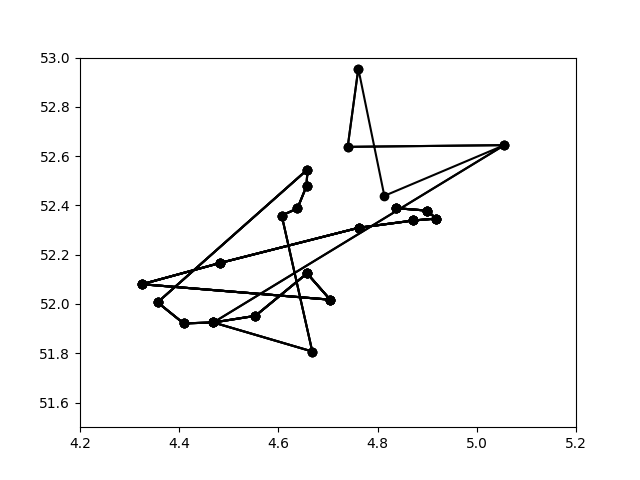
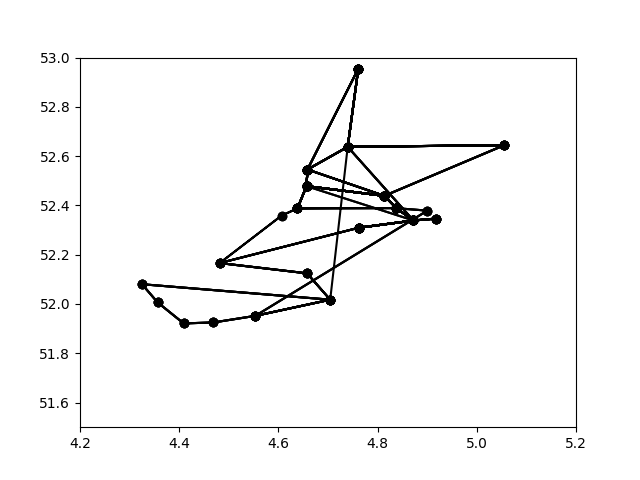
updated random algorithm

Changed region(s): [[0.2188, 0.4062, 0.5938, 0.75], [0.4375, 0.1562, 0.7812, 0.5]]

diff --git a/code/algorithms/random.py b/code/algorithms/random.py
@@ -2,106 +2,83 @@ import random
 from code.classes.routes import Routes
 import copy
 
-def get_random_routes(network):
+def get_random_routes(network, connections):
     """
     Algorithm to gain random routes, with the following constraints:
 
     1. Max number of routes is 7
-    2. Every station is once in the routes
+    2. Every link is only once in the routes
     3. Total time is less than 2 hours
 
     """
     # laad een lege dictionary om routes in te stoppen
-    routes_trajecten = {}
+    routes = {}
     counter = 0
 
     # kopieer de stations en stop ze in een lijst zodat we een random object kunnen vinden
     copy_stations = copy.deepcopy(network)
-    copy_stations_list = copy.deepcopy(list(copy_stations.items()))
+    copy_stations_list = list(copy_stations.items())
+    copy_connections = copy.deepcopy(connections)
 
-    while len(routes_trajecten) < 7 and len(copy_stations) != 0:
+    # maak een lijst voor alle bereden verbindingen
+    connections_used = []
 
-        # maak een lege lijst aan voor stations en routes
+    while len(routes) < 7:
+
+        # maak een lege lijst aan voor stations 
         stations = []
-        route = []
-        
+
         # pak een random station uit de lijst met stationnetjes
         start_station = random.choice(copy_stations_list) # geeft een random object ('Amsterdam Centraal', <code.classes.station.Station object at 0x7fd015d33310>)
         
         # geeft de naam van het object zelf bijv. 'Amsterdam Centraal'
         start_station_name = start_station[0] 
-    
-        # voeg de stationsnaam toe aan een route
-        route.append(start_station_name)
 
         # voeg het station toe aan een lijst die de connecties gaat laden 
         stations.append(start_station)
 
-        # set de tijd op 0 voor een nieuw traject
+        # zet de tijd op 0 voor een nieuw traject
         time = 0
 
-        # zolang de tijd onder twee uur is en er een station beschikbaar is gaan we routes toevoegen
-        while time < 120 and start_station[0] in copy_stations:
-        
-            # verwijder deze vervolgens weer uit de lijst met stationnentjes zodat we geen dubbele stations krijgen
-            del copy_stations[start_station[0]] # delete een station uit de lijst met stationnetjes 
-            
-            # geef aan dat de route nog niet af is en de tijd is nog 0
-            connection_end = False
+        while time <= 120:
 
-            # laad alle connections van het start station in
             connections_start_station = list(stations[-1][1].connections.items())
+            random_connection = random.choice(connections_start_station)
 
-            # pak een random connectie uit die lijst en sla ook de tijd op
-            for i in range(len(connections_start_station)):
-                random_connection = random.choice(connections_start_station)
+            random_connection_name = random_connection[0]
 
-                # sla de naam op van de connectie
-                random_connection_name = random_connection[0]
+            check = True
 
-                # sla de tijd op van de connectie
+            # check of de gemaakte verbinding al is bereden of niet, zo nee, voeg toe aan verbindingen
+            for connection in copy_connections:
+                if connection[0] == start_station_name and connection[1] == random_connection_name:
+                    for connection_used in connections_used:
+                        if connection_used[0] == start_station_name and connection_used[1] == random_connection_name:
+                            check = False
+                            continue
+
+            if check != False:
+                connections_used.append((start_station_name, random_connection_name))
                 time_route = int(random_connection[1])
 
-                # de tijd van de route mag niet over het maximum heen, als dat lukt slaan we de connectie op
-                if time + time_route < 120 and random_connection_name in copy_stations: 
-                    connection_end = random_connection_name
-                    break
-                else:
-                    # als dat niet kan, verwijderen we de connectie uit de mogelijke connectie lijst
-                    connections_start_station.remove(random_connection)
-
-            if connection_end != False:
+                # add the station object of the connection to the stations list
+                for station in copy_stations_list:
+                    if station[0] == random_connection_name:
+                        stations.append(station)
+            
                 # update de totale tijd van de route
                 time += time_route
 
-                # voeg de connectie toe aan de route
-                route.append(connection_end)
-
-                # maak stations weer leeg zodat een nieuw station geladen kan worden
-                stations = []
-
-                # de connectie wordt een nieuw startpunt
-                start_station = connection_end
-
-                # maak er een tuple van zodat de rest klopt
-                start_station = (connection_end, copy_stations[connection_end])
-
-                # laad dit station in stations
-                stations.append(start_station)
-
-            else:
-                # als de lengte van de route uit een enkel station bestaat, voegen we er een toe
-                if len(route) < 2:
-                    connection_end = random_connection_name
-                    time += time_route
-                    route.append(connection_end)
-
                 # update het aantal routes
-                counter += 1
-
-                # voeg de route toe aan de dictionary van routes
-                routes_trajecten[counter] = Routes(route)
-                routes_trajecten[counter].add_routes(counter, route)
+                if time >= 120:
+                    p = len(connections_used)/len(copy_connections)
+                    print(p)
+                    counter += 1
+                    # voeg de route toe aan de dictionary van routes
+                    routes[counter] = Routes(stations)
+                    routes[counter].add_routes(counter, stations)
+                    break
+            else:
                 break
 
-    return routes_trajecten
+    return routes

diff --git a/code/classes/network.py b/code/classes/network.py
@@ -7,7 +7,8 @@ import random
 class Network():
     def __init__(self):
         self.stations = self.load_station()
-        self.load_connections()        
+        self.load_connections()
+        self.get_connections()        
         
     def load_station(self):
         """
@@ -42,6 +43,13 @@ class Network():
                 for connection in connections:
                     self.stations[station].add_connection(connection, distance)
                     self.stations[connection].add_connection(station, distance)
+
+    def get_connections(self):
+        connections = []
+        for station in self.stations.values():
+            for connection in station.connections:
+                connections.append((station.name, connection))
+        return connections
 
 
     def print_csv(self):

diff --git a/code/classes/routes.py b/code/classes/routes.py
@@ -14,7 +14,7 @@ class Routes():
         self.routes[train] = stations
         return self.routes
 
-def print_results(test2):
+def print_results(routes_random):
     """
     Method to print a csv file with results
     """
@@ -24,11 +24,11 @@ def print_results(test2):
         thewriter.writeheader()
         trains_count = 0
         
-        for key,value in test2.items():
+        for key,value in routes_random.items():
             routes = []
             trains_count += 1
             for station in value.stations:
-                route = station
+                route = station[0]
                 routes.append(route)    
             thewriter.writerow({'train': trains_count, 'route': routes})
 

diff --git a/main.py b/main.py
@@ -8,9 +8,10 @@ if __name__ == "__main__":
 
     # Create a network from our data
     network = network.Network()
+    connections = network.get_connections()
 
     # Create random routes and print results
-    random_routes = random.get_random_routes(network.stations)
+    random_routes = random.get_random_routes(network.stations, connections)
     results = routes.print_results(random_routes)
 
     # Create visualisation from our results

diff --git a/code/visualisations/vision.py b/code/visualisations/vision.py
@@ -30,8 +30,8 @@ def print_stations(test, test2):
     for traject in trajecten:
         k += 1
         for station in traject:
-            if station in dictionary:
-                data.append(dictionary[station])
+            if station[0] in dictionary:
+                data.append(dictionary[station[0]])
     
         y, x = zip(*data)
         plt.ylim(51.5, 53)
